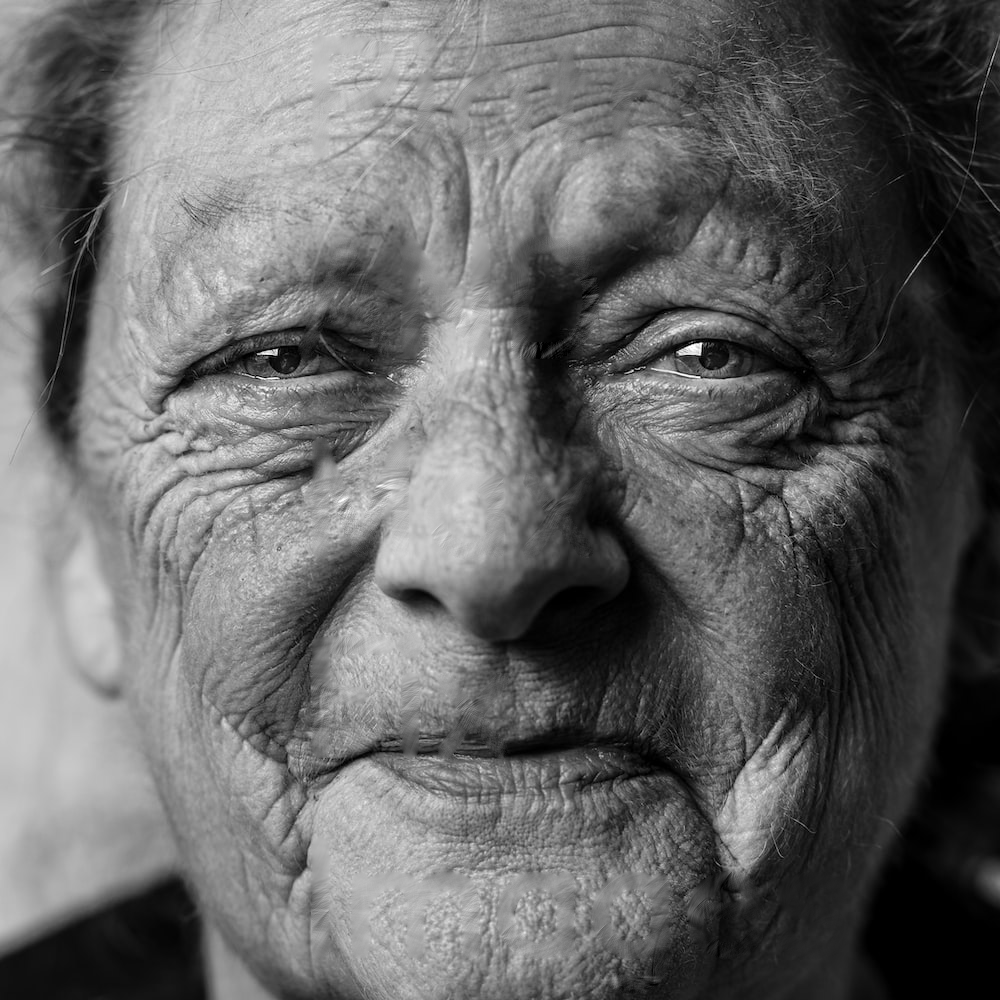
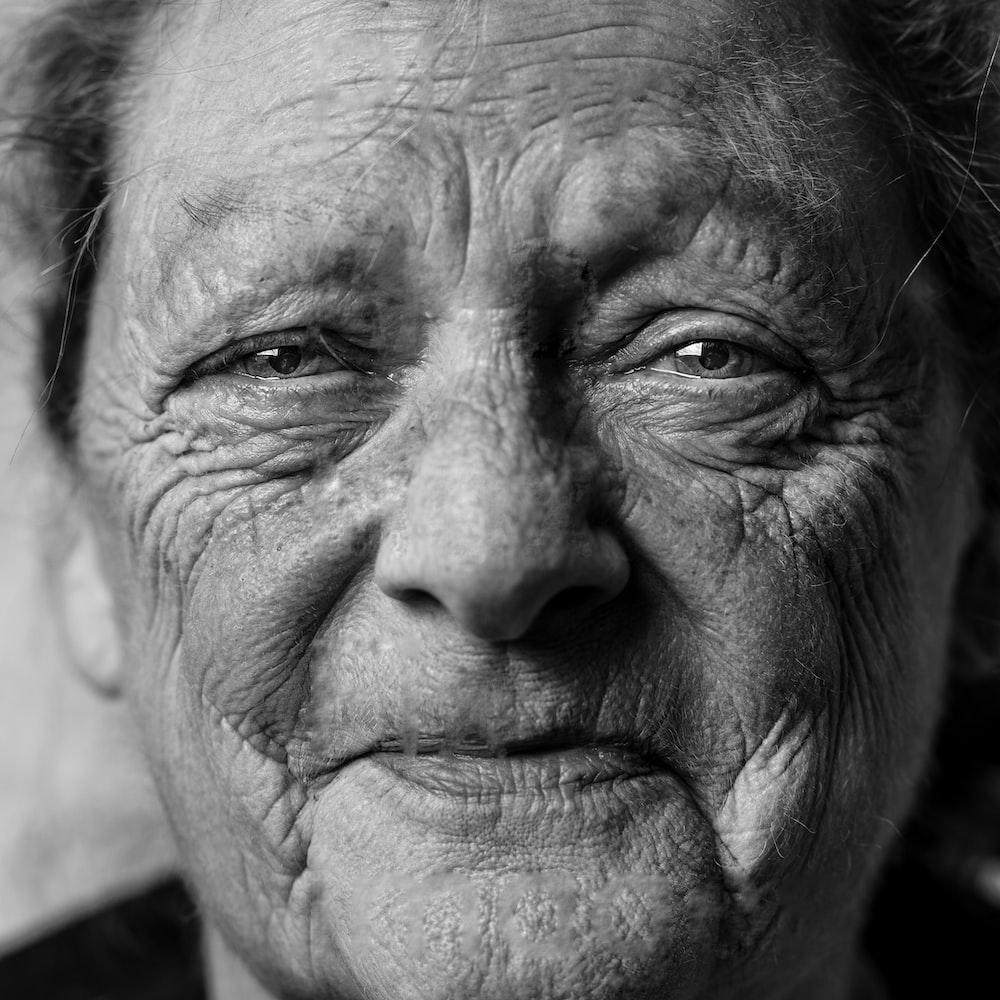
more fixes

diff --git a/imagerestoration.py b/imagerestoration.py
@@ -69,7 +69,8 @@ cv2.putText(whiteblankimage, text='Images', org=(300,950),
 
 #make image to array
 mask=np.array(whiteblankimage)
-mask_save=mask.convert("L")
+mask_save=Image.fromarray(mask*255)
+mask_save=mask_save.convert("L")
 mask_save.save("mask_text.png")
 
 
@@ -99,7 +100,7 @@ for i in  tqdm(range(len(mask))):
 #run the numerical method
 len_mask=len(mask)
 len_mask_i=len(mask[0])
-for k in tqdm(range(100)):
+for k in tqdm(range(1000)):
     
     for p in positions:
         i=p[0]
